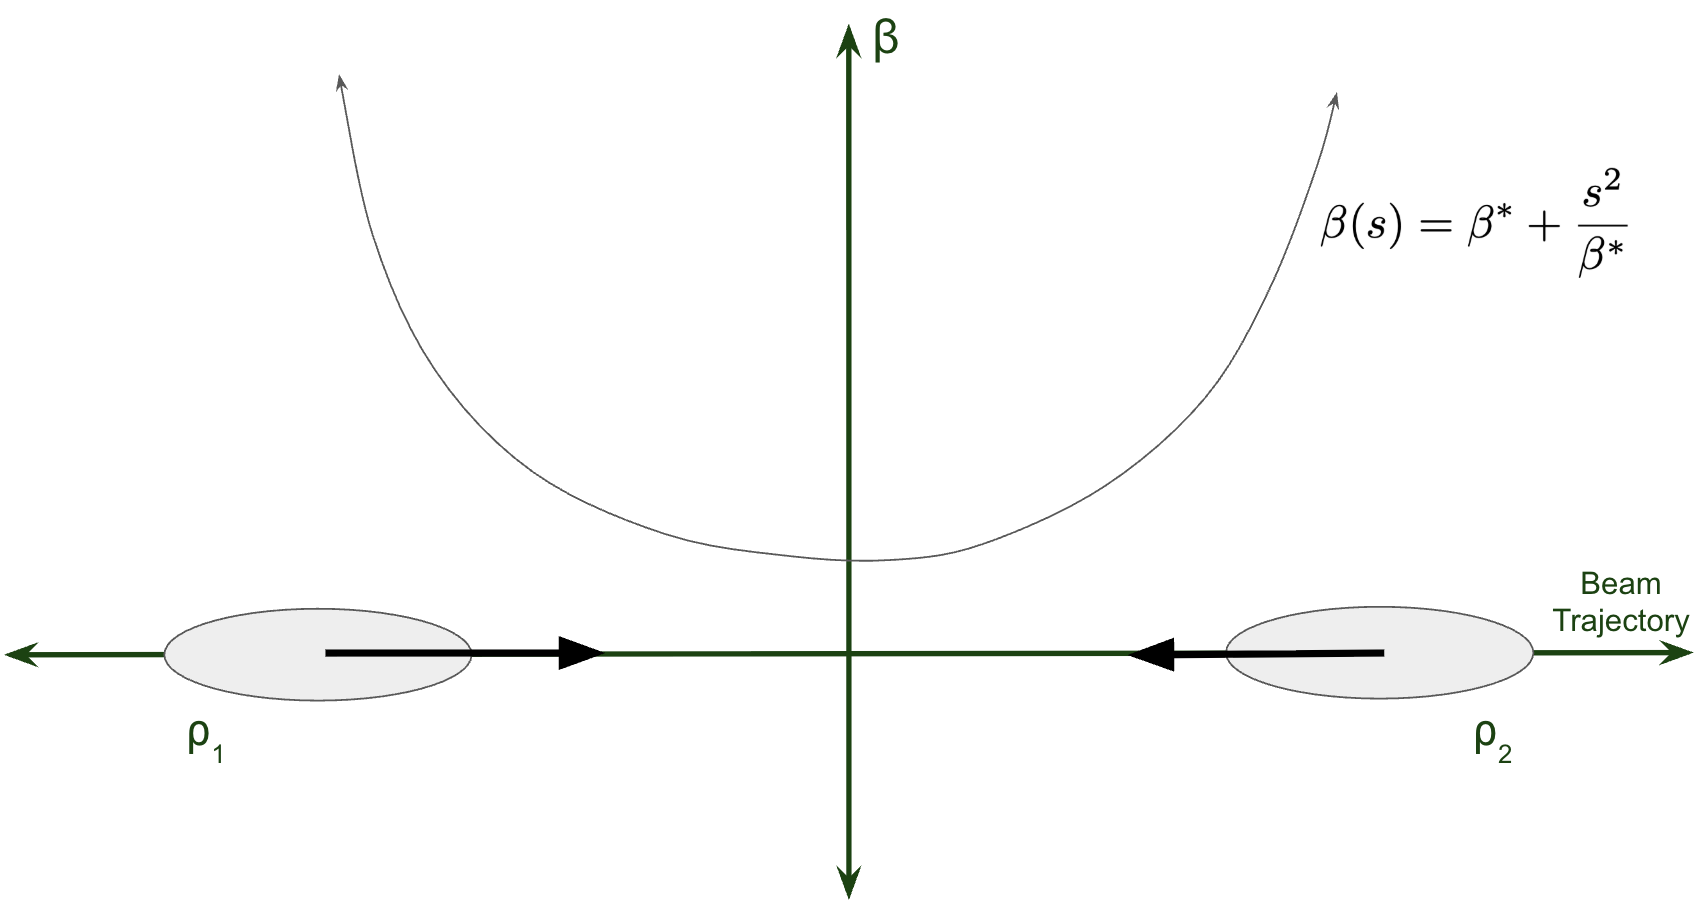
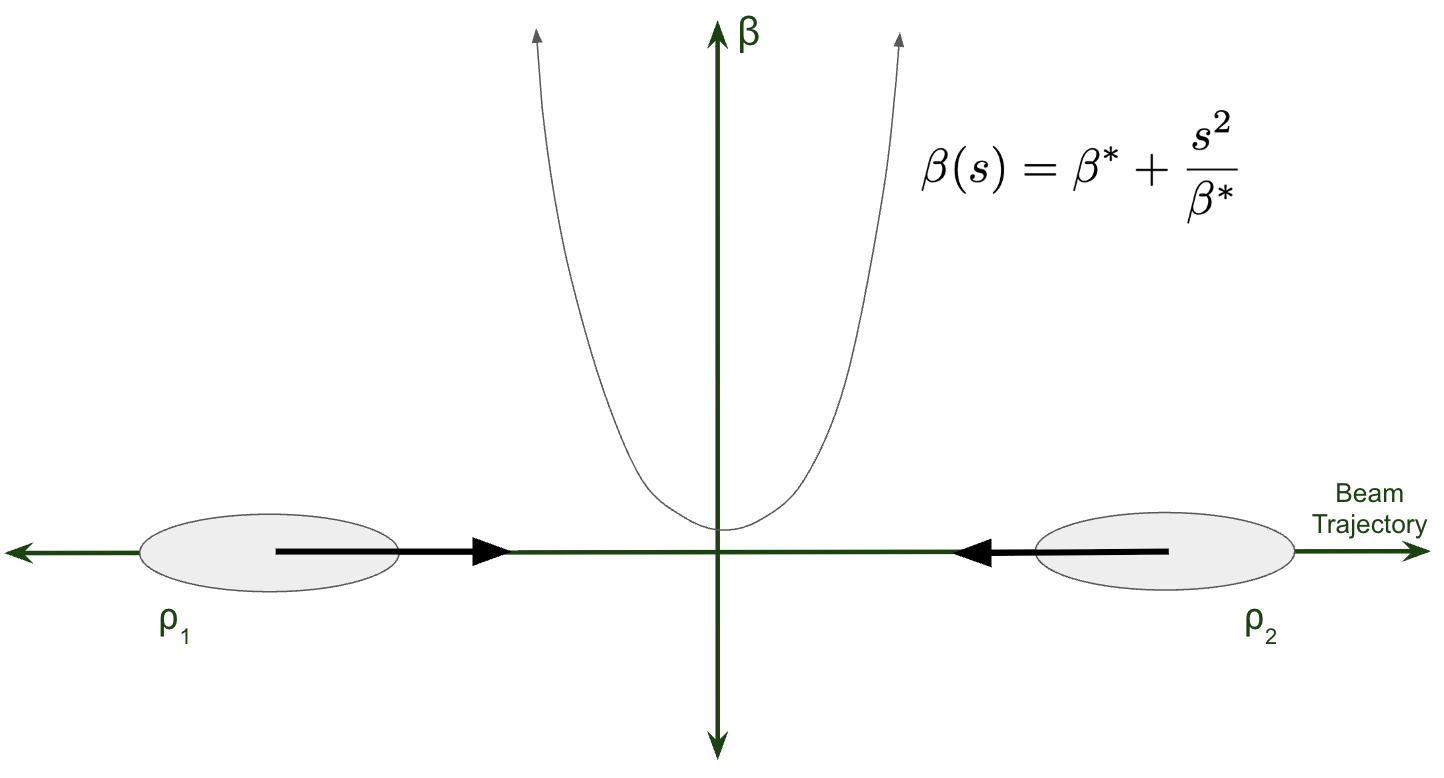
luminosity plot

diff --git a/assets/js/luminosity/luminosity.js b/assets/js/luminosity/luminosity.js
@@ -1,0 +1,140 @@
+// assets/js/luminosity/luminosity.js
+
+function integrand(s, f, N1, N2, ssx, ssy, bsx, bsy, ex, ey, sz, phi) {
+  const beta_x = bsx*(1 + ((s - ssx)/bsx)**2);
+  const beta_y = bsy*(1 + ((s - ssy)/bsy)**2);
+  const sx = Math.sqrt(ex*beta_x);
+  const sy = Math.sqrt(ey*beta_y);
+
+  const denom = 4*Math.PI**1.5*sx*sy*sz;
+
+  const num = Math.exp(
+    -1*s**2*(
+      Math.sin(phi/2)**2/sx**2 +
+      Math.cos(phi/2)**2/sz**2
+    )
+  );
+
+  return f*N1*N2*Math.cos(phi/2)*(num/denom);
+}
+
+function integrateSimpson(func, a, b, n = 400) {
+  if (n%2 !== 0) n += 1; // Simpson requires even n
+  const h = (b - a)/n;
+
+  let sum = func(a) + func(b);
+
+  for (let i = 1; i < n; i++) {
+    const x = a + i*h;
+    sum += func(x) * (i % 2 === 0 ? 2 : 4);
+  }
+
+  return (h/3)*sum;
+}
+
+function LuminosityIntegral(
+  f, N1, N2, ssx, ssy, bsx, bsy, ex, ey, sz, phi, a, b
+) {
+  const func = (s) => integrand(s, f, N1, N2, ssx, ssy, bsx, bsy, ex, ey, sz, phi);
+  return integrateSimpson(func, a, b, 400);
+}
+
+function initLuminosityPlot() {
+  const plotDiv = document.getElementById("luminosity");
+  // const phiInput = document.getElementById("phi-input");
+  const bsxInput = document.getElementById("bsx-input");
+  const bsyInput = document.getElementById("bsy-input");
+  const ssxInput = document.getElementById("ssx-input");
+  const ssyInput = document.getElementById("ssy-input");
+  const sigInput = document.getElementById("sig-input");
+
+  const bsxValueSpan = document.getElementById("bsx-value");
+  const bsyValueSpan = document.getElementById("bsy-value");
+  const ssxValueSpan = document.getElementById("ssx-value");
+  const ssyValueSpan = document.getElementById("ssy-value");
+  const sigValueSpan = document.getElementById("sig-value");
+
+  if (!plotDiv || !bsxInput || !bsyInput || !ssxInput || !ssyInput || !sigInput) return;
+
+  function updatePlot() {
+    const bsx = parseFloat(bsxInput.value);
+    const bsy = parseFloat(bsyInput.value);
+    const ssx = parseFloat(ssxInput.value);
+    const ssy = parseFloat(ssyInput.value);
+    const sig = parseFloat(sigInput.value);
+    // const a = -2 * eps / gamma;
+
+    bsxValueSpan.textContent = bsx.toFixed(2);
+    bsyValueSpan.textContent = bsy.toFixed(2);
+    ssxValueSpan.textContent = ssx.toFixed(2);
+    ssyValueSpan.textContent = ssy.toFixed(2);
+    sigValueSpan.textContent = sig.toFixed(2);
+    // aValueSpan.textContent = a.toFixed(3);
+
+    const N = 100;
+    const f = 78000; //Hz
+    const N1 = 2E11;
+    const N2 = 2E11;
+    const ex = 1E-7; //1E-8 //m
+    const ey = 1E-7; //1E-8 //m
+    const sz = sig //m
+    const conversion = 1/100**2
+    const beta_star_x = bsx
+    const beta_star_y = bsy
+    const s_star_x = ssx
+    const s_star_y = ssy
+
+    // Approximate infinite limits: ±10 σ_z
+    const neg_inf = -10;
+    const pos_inf =  10;
+
+    // Phi: 0 → π/100, N+1 samples (like np.linspace)
+    const Phi = Array.from({ length: N + 1 }, (_, i) =>
+      (i * (Math.PI / 100)) / N  // effectively 0..π/100
+    );
+    console.log(Phi[1])
+    const Luminosities = new Array(N + 1);
+
+    // Loop over phi values
+    for (let i = 0; i <= N; i++) {
+      const phi = Phi[i];
+
+      Luminosities[i] =
+        LuminosityIntegral(
+          f, N1, N2,
+          s_star_x, s_star_y,
+          beta_star_x, beta_star_y,
+          ex, ey, sz,
+          phi,
+          neg_inf, pos_inf
+        ) * conversion;
+    }
+
+    const trace = {
+      x: Phi,
+      y: Luminosities,
+      mode: "lines",
+      name: "Luminosity"
+    };
+
+    const layout = {
+      title: "Luminosity With Respect To Crossing Angle",
+      xaxis: { title: "$\\phi_c\\text{ (radians)}$" },
+      yaxis: { title: "Luminosity (cm⁻¹ s⁻¹)",
+       }
+    };
+
+    Plotly.react(plotDiv, [trace], layout);
+  }
+
+  bsxInput.addEventListener("input", updatePlot);
+  bsyInput.addEventListener("input", updatePlot);
+  ssxInput.addEventListener("input", updatePlot);
+  ssyInput.addEventListener("input", updatePlot);
+  sigInput.addEventListener("input", updatePlot);
+
+  // initial draw
+  updatePlot();
+}
+
+document.addEventListener("DOMContentLoaded", initLuminosityPlot);

diff --git a/assets/js/mcmillan/sextupole_mcmillan.js b/assets/js/mcmillan/sextupole_mcmillan.js
@@ -1,11 +1,11 @@
-// assets/js/sextupole_mcmillan.js
+// assets/js/mcmillan/sextupole_mcmillan.js
 
 function K0(p, q, a) {
   return p * p - a * p * q + q * q;
 }
 
-function KDO(p, q, a) {
-  return K0(p, q, a) - p * p * q * q;
+function KSX(p, q, a) {
+  return K0(p, q, a) + p * p * q + p * q * q;
 }
 
 // Build 1D linspace
@@ -30,7 +30,7 @@ function computeGrid(a, pMin, pMax, qMin, qMax, n) {
     const p = P[i];
     for (let j = 0; j < n; j++) {
       const q = Q[j];
-      Z[i][j] = KDO(p, q, a);
+      Z[i][j] = KSX(p, q, a);
     }
   }
 
@@ -87,11 +87,11 @@ function initMcMillanPlot() {
         coloring: "heatmap",
         showlines: true
       },
-      colorbar: { title: "K_DO" }
+      colorbar: { title: "K_SX" }
     };
 
     const layout = {
-      title: `Defocusing Octupole McMillan Map, a = ${a.toFixed(3)}`,
+      title: `Sextupole McMillan Map, a = ${a.toFixed(3)}`,
       xaxis: { title: "q", scaleanchor: "y", scaleratio: 1 },
       yaxis: { title: "p" },
       margin: { t: 40, r: 10, l: 60, b: 50 }

diff --git a/assets/js/mcmillan/octupole_mcmillan.js b/assets/js/mcmillan/octupole_mcmillan.js
@@ -1,11 +1,11 @@
-// assets/js/sextupole_mcmillan.js
+// assets/js/mcmillan/octupole_mcmillan.js
 
 function K0(p, q, a) {
   return p * p - a * p * q + q * q;
 }
 
-function KSX(p, q, a) {
-  return K0(p, q, a) + p * p * q + p * q * q;
+function KDO(p, q, a) {
+  return K0(p, q, a) - p * p * q * q;
 }
 
 // Build 1D linspace
@@ -30,7 +30,7 @@ function computeGrid(a, pMin, pMax, qMin, qMax, n) {
     const p = P[i];
     for (let j = 0; j < n; j++) {
       const q = Q[j];
-      Z[i][j] = KSX(p, q, a);
+      Z[i][j] = KDO(p, q, a);
     }
   }
 
@@ -87,11 +87,11 @@ function initMcMillanPlot() {
         coloring: "heatmap",
         showlines: true
       },
-      colorbar: { title: "K_SX" }
+      colorbar: { title: "K_DO" }
     };
 
     const layout = {
-      title: `Sextupole McMillan Map, a = ${a.toFixed(3)}`,
+      title: `Defocusing Octupole McMillan Map, a = ${a.toFixed(3)}`,
       xaxis: { title: "q", scaleanchor: "y", scaleratio: 1 },
       yaxis: { title: "p" },
       margin: { t: 40, r: 10, l: 60, b: 50 }

diff --git a/_projects/luminosity.md b/_projects/luminosity.md
@@ -90,16 +90,65 @@ In reality, the transverse beam size $$\sigma_{iz} = \sqrt{\beta_{iz}\epsilon_{i
 
 ![Beta_function_IR](/assets/images/luminosity/Beta_function_IR.png)
 
-The beta function here is designed to get the beam transverse size as small as possible for higher collision rates, as the beam sizes are in the denominator of $$\mathcal{L}$$. This particularly intense squeezing of the beam near the Interaction Point is known as beta squeeze or the hourglass effect due to the shape of the beta function.
+Where the beams are still tilted. The beta function here is designed to get the beam transverse size as small as possible for higher collision rates, as the beam sizes are in the denominator of $$\mathcal{L}$$. This particularly intense squeezing of the beam near the Interaction Point is known as beta squeeze or the hourglass effect due to the shape of the beta function.
 
 Since $$\sigma_{iz}$$ depends on $$s$$, $$\sigma_{iz}$$ is evaluated within the $$s$$ integral, and the final integral with respect to $$s$$ cannot be done in terms of elementary functions:
 
 $$ \mathcal{L_{CA, HG}} = \frac{\cos(\frac{\phi}{2})fN_1N_2N_b}{4\pi^{3/2}\sigma_s}\int_{-\infty}^{\infty} 
 \frac{1}{\sigma_x(s)\sigma_y(s)}\exp(-s^2(\frac{\sin(\frac{\phi}{2})}{\sigma_x^2(s)} + \frac{\cos(\frac{\phi}{2})}{\sigma_s^2})) ds$$
 
+## 3. $$s^*$$
 
+In most cases, the beta function is not exactly centered at $$s = 0$$ (Interaction Point), but somewhere near called $$s^*$$, or the location of the minimum of the beta function. This can be added into the beta function equation as a displacement from s:
 
+![Beta_function_IR_sstar](/assets/images/luminosity/Beta_function_IR_sstar.png)
 
+The luminosity still takes the same form as $$L_{CA, HG}$$, but now it depends on $$s^*_{iz}; z = x, y$$. Accelerator physicists move the collision location to match $$s^*$$ to maximize the luminosity. This is done by tuning the quadrupole strengths around the interaction region. 
+
+---
+
+## Luminosity Plot
+
+<div id="luminosity" style="width: 100%; max-width: 700px; height: 600px;"></div>
+
+<script src="https://cdn.plot.ly/plotly-2.35.2.min.js"></script>
+<script src="/assets/js/luminosity/luminosity.js"></script>
+
+<div style="max-width: 600px;">
+  <label>
+    \( \beta^*_x \):
+    <input id="bsx-input" type="range" min="0.10" max="5.00" step="0.05" value="0.70">
+    <span id="bsx-value">0.70</span>
+  </label>
+  <br>
+  <label>
+    \( \beta^*_y \):
+    <input id="bsy-input" type="range" min="0.10" max="5.00" step="0.05" value="0.70">
+    <span id="bsy-value">0.70</span>
+  </label>
+  <br>
+
+  <label>
+    \( s^*_x \):
+    <input id="ssx-input" type="range" min="-0.50" max="0.50" step="0.05" value="0.00">
+    <span id="ssx-value">0.00</span>
+  </label>
+  <br>
+  <label>
+    \( s^*_y \):
+    <input id="ssy-input" type="range" min="-0.50" max="0.50" step="0.05" value="0.00">
+    <span id="ssy-value">0.00</span>
+  </label>
+  <br>
+  <label>
+    \( \sigma_s \):
+    <input id="sig-input" type="range" min="0.10" max="0.50" step="0.05" value="0.20">
+    <span id="sig-value">0.20</span>
+  </label>
+  <br>
+  
+  <!-- <strong>a = <span id="a-value"></span></strong> -->
+</div>
 
 
 <!-- $$ \frac{dR}{dt} = \mathcal{L} \sigma_p$$

diff --git a/_projects/sextupole_mcmillan.md b/_projects/sextupole_mcmillan.md
@@ -21,7 +21,12 @@ $$
 
 ---
 
-## Controls
+## Contour plot
+
+<div id="mcmillan-plot" style="width: 100%; max-width: 700px; height: 600px;"></div>
+
+<script src="https://cdn.plot.ly/plotly-2.35.2.min.js"></script>
+<script src="/assets/js/mcmillan/sextupole_mcmillan.js"></script>
 
 <div style="max-width: 600px;">
   <label>
@@ -44,12 +49,3 @@ $$
   <br>
   <strong>a = <span id="a-value"></span></strong>
 </div>
-
----
-
-## Contour plot
-
-<div id="mcmillan-plot" style="width: 100%; max-width: 700px; height: 600px;"></div>
-
-<script src="https://cdn.plot.ly/plotly-2.35.2.min.js"></script>
-<script src="/assets/js/sextupole_mcmillan.js"></script>

diff --git a/_projects/octupole_mcmillan.md b/_projects/octupole_mcmillan.md
@@ -21,7 +21,12 @@ $$
 
 ---
 
-## Controls
+## Contour plot
+
+<div id="mcmillan-plot" style="width: 100%; max-width: 700px; height: 600px;"></div>
+
+<script src="https://cdn.plot.ly/plotly-2.35.2.min.js"></script>
+<script src="/assets/js/mcmillan/octupole_mcmillan.js"></script>
 
 <div style="max-width: 600px;">
   <label>
@@ -44,12 +49,3 @@ $$
   <br>
   <strong>a = <span id="a-value"></span></strong>
 </div>
-
----
-
-## Contour plot
-
-<div id="mcmillan-plot" style="width: 100%; max-width: 700px; height: 600px;"></div>
-
-<script src="https://cdn.plot.ly/plotly-2.35.2.min.js"></script>
-<script src="/assets/js/octupole_mcmillan.js"></script>
